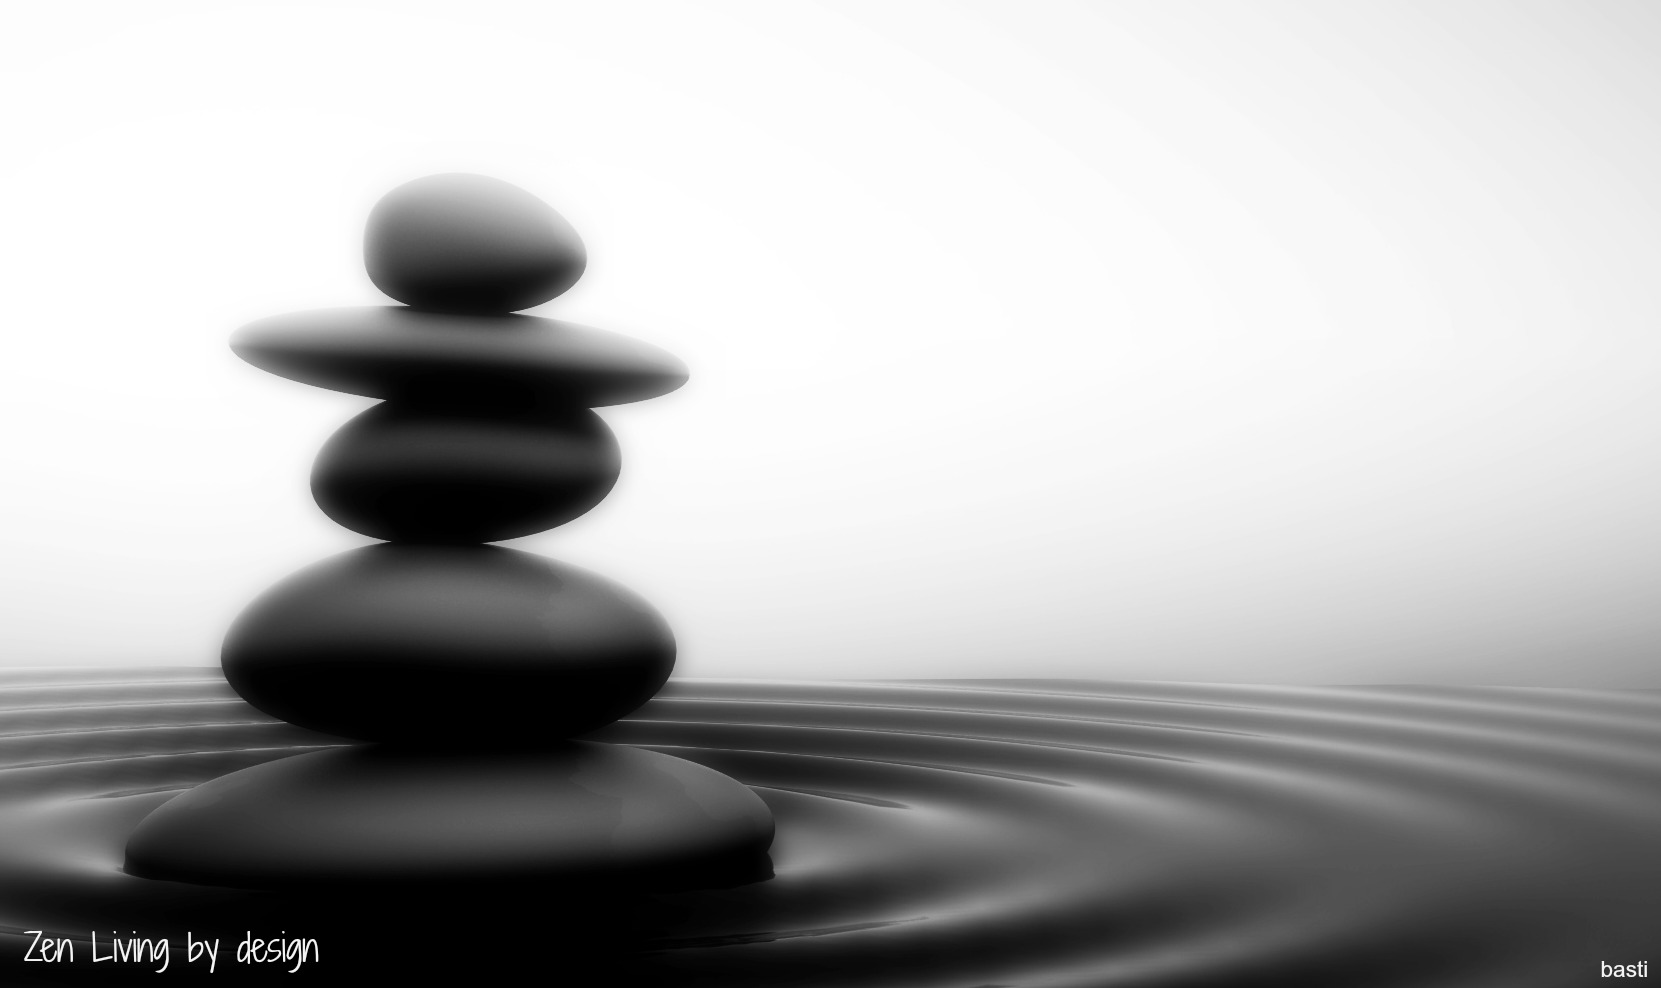
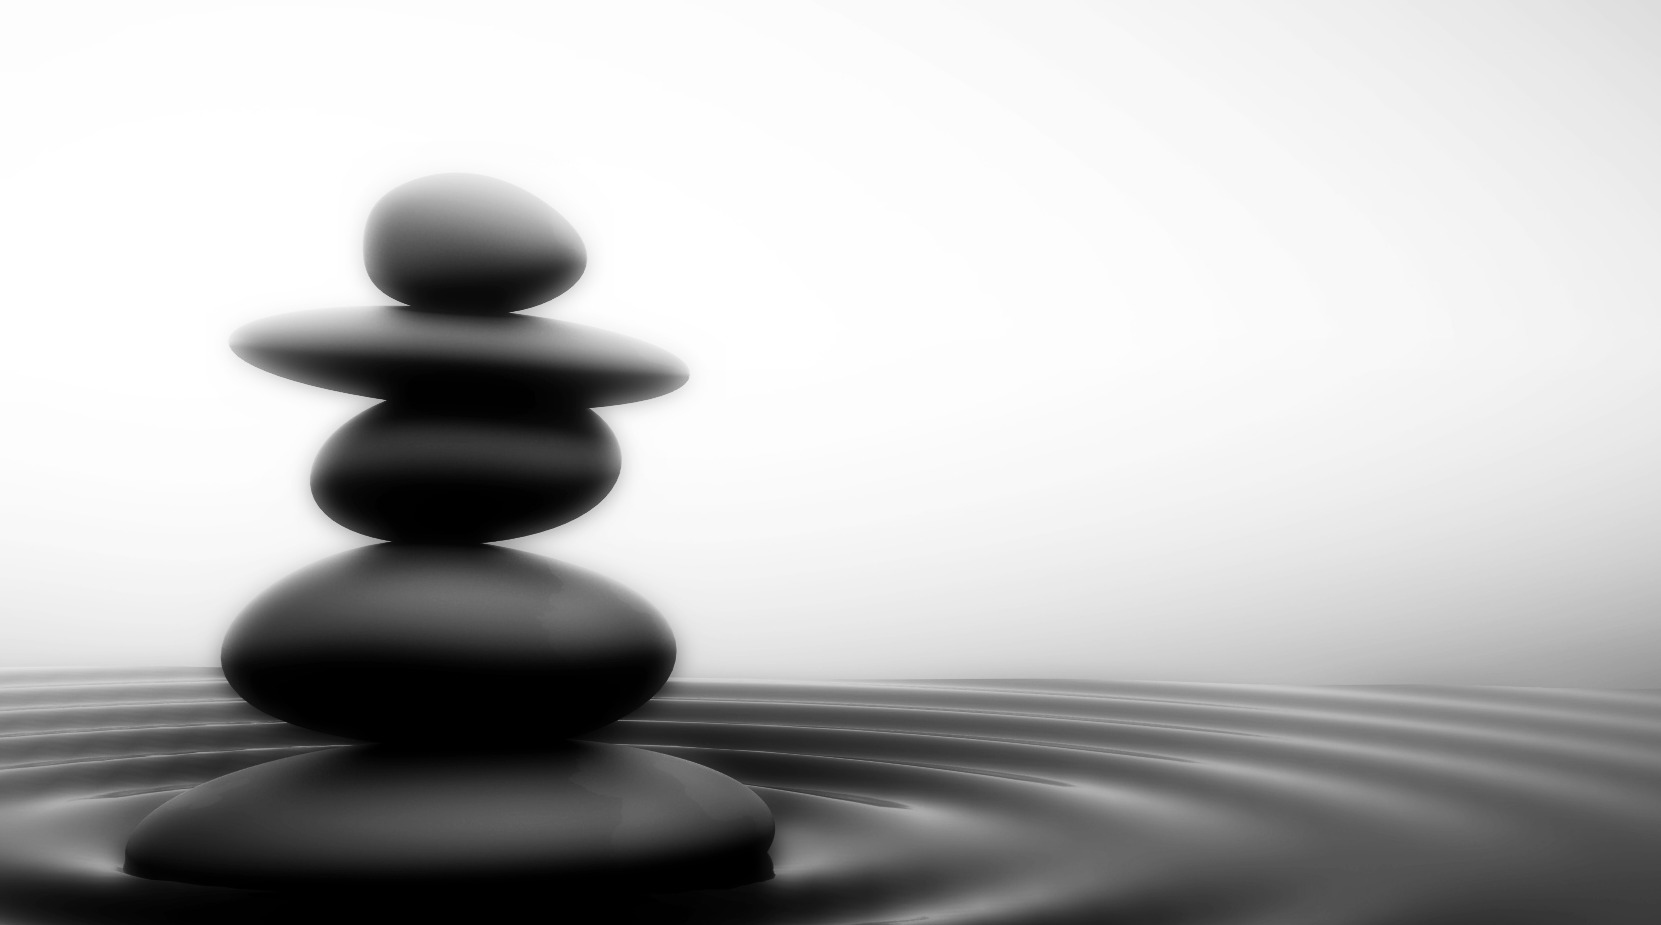
changed res image

Changed region(s): [[0.0, 0.1816, 1.0, 1.0], [0.9518, 0.9686, 1.0, 0.9989]]

diff --git a/index.html b/index.html
@@ -21,7 +21,7 @@ layout: default
     <div class="unit unit-s-1 unit-m-1-2 unit-l-1-2 "><!--!small screen, then medioum, then large-->
         <div class="religions">
         <h3>Meditation: A Journey Inwards</h3>
-        <p>With the <em><strong>practice of meditation</strong></em> you become capable of enabling yourself to enjoy an indestructible sense of <strong>well-being</strong> while engaging any life activity. <br /><br />This discipline refers to a broad variety of <strong>mindful</strong> practices, which the individual uses to train the mind or induce <strong>alter state of consciousness</strong>. It has been scientifically proven that the regular practice of <strong>meditation</strong> can deliver you boundless benefits in every field of your life.</p><br /><a href="about.html" class="link" alt="find more about meditation">Find Out More</a>
+        <p>With the <em><strong>practice of meditation</strong></em> you become capable of enabling yourself to enjoy an indestructible sense ofwell-being while engaging any life activity. <br /><br />This discipline refers to a broad variety of mindful practices, which the individual uses to train the mind or induce alter state of consciousness. It has been scientifically proven that the regular practice of meditation can deliver you boundless benefits in every field of your life.</p><br /><a href="about.html" class="link" alt="find more about meditation">Find Out More</a>
         </div>
     
     </div>

diff --git a/css/general.css b/css/general.css
@@ -170,7 +170,7 @@ background-position:center center;  /*how the image is going to act as scaled*/
 }
 
 .picture-paths{
-	background-image: url(../img/zen.jpeg);/*to change the image in each page*/
+	background-image: url(../img/zen__5.jpg);/*to change the image in each page*/
 	box-shadow: 2px 2px 2px #888888;
 }
 	
@@ -246,7 +246,12 @@ footer{
 .link{
 	
 	color: #F60;
+	font-family: 'WebServeroffItalic';
 	}
+	
+	/***************************************************************************************
+			Skiplinks
+***************************************************************************************/
 
 .skiplinks{
 	font-family: 'WebServeroffItalic';
@@ -277,6 +282,20 @@ footer{
 	
 	}
 			
+
+
+
 /***************************************************************************************
-			Skiplinks
+			Fallbacks
 ***************************************************************************************/
+.no-rgba figcaption{
+	background-color: #000;
+	
+
+	}
+	
+.no-js figure{
+	
+	border:1px solid #F00;
+	
+	}	
